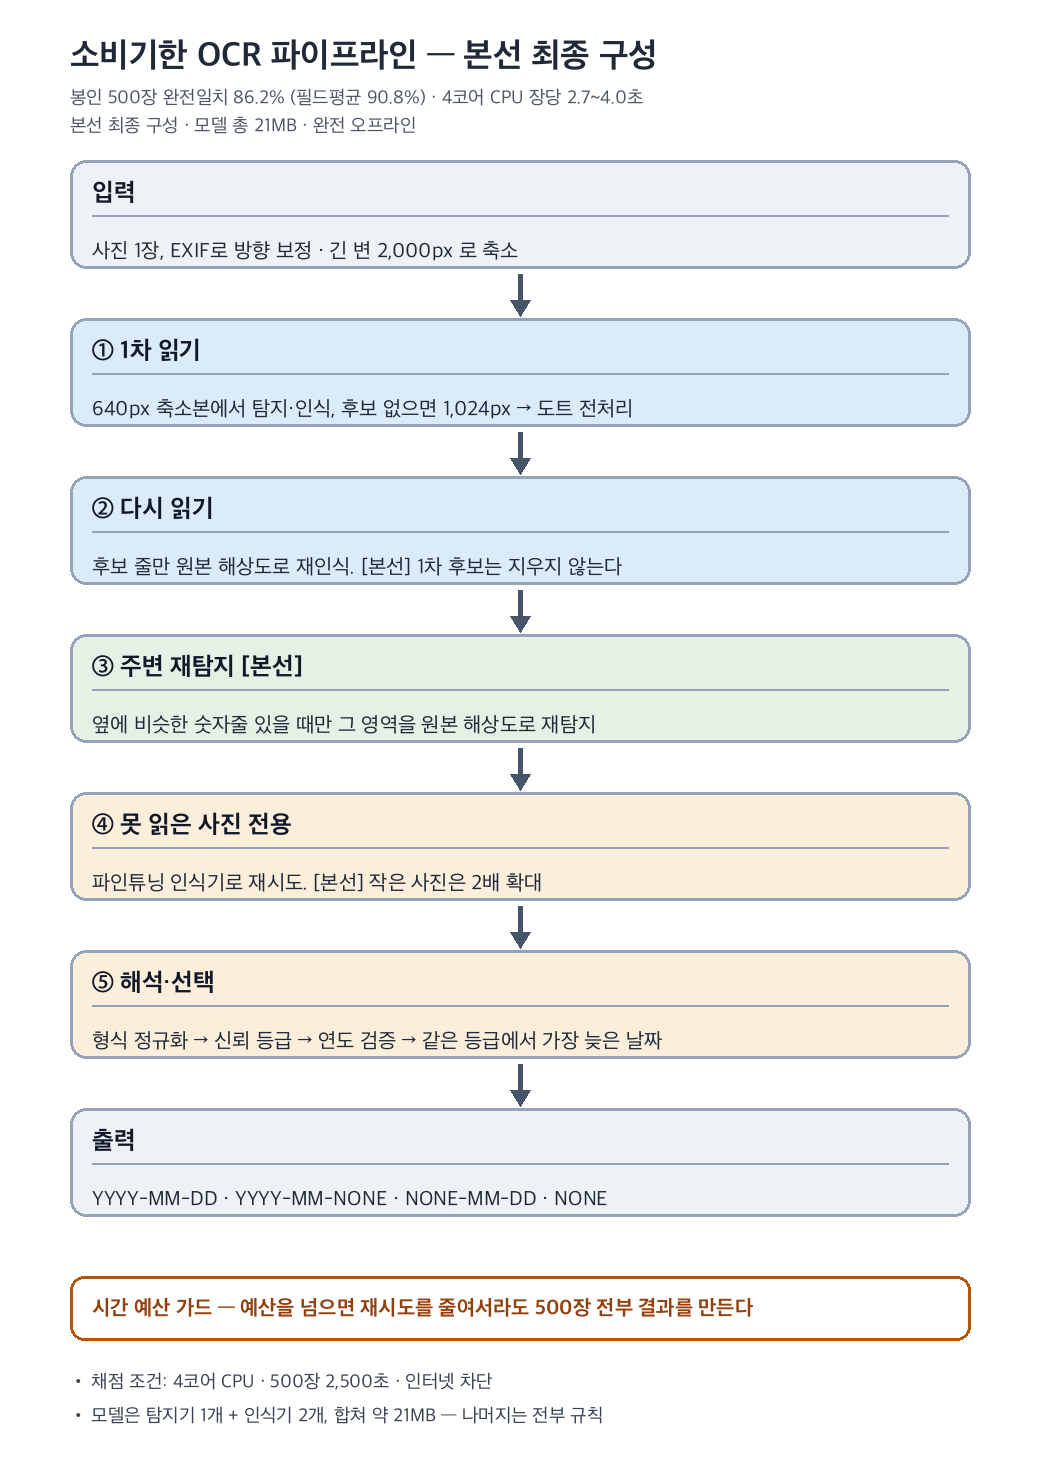
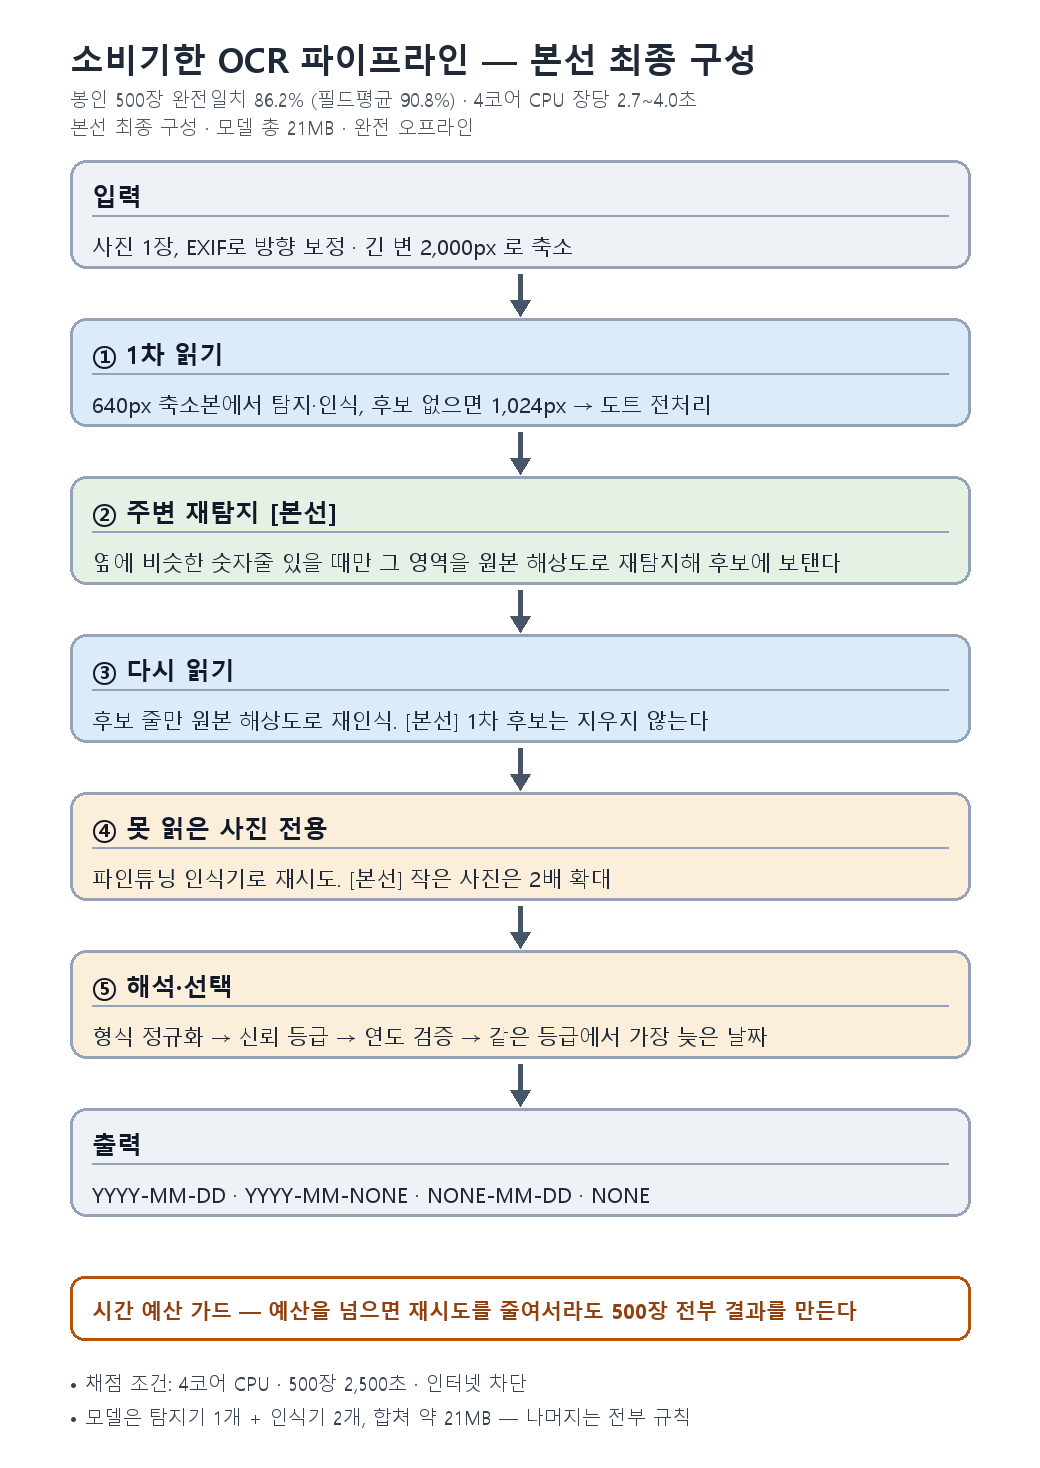
docs(구조도): ②·③ 순서를 코드 실행 순서(주변 재탐지 → 다시 읽기)에 맞춤
predict.ipynb 는 pass1 → redetect_neighbors → pass2 순서라, 재탐지로 찾은 줄도 다시 읽기·다수결을 거친다.
그림(architecture.png/svg)과 본선보고서 초안 D·전체판 3-1 텍스트 도식을 함께 고치고, 남은 일 4 완료·갱신 기록 추가.
Windows(맑은 고딕)에서 본문 글자가 상자 테두리에 닿아 PNG 본문만 7px 올림(맥 글꼴은 그대로). 본문 수치 변경 없음.

diff --git a/notebooks/draw_architecture.py b/notebooks/draw_architecture.py
@@ -1,4 +1,4 @@
-"""파이프라인 아키텍처 구조도를 PNG(보고서·발표용)와 SVG(편집용)로 그린다. 본선 최종 구성 기준(2026-09-29).
+"""파이프라인 아키텍처 구조도를 PNG(보고서·발표용)와 SVG(편집용)로 그린다. 본선 최종 구성 기준(2026-09-29). 10/2: ② 주변 재탐지 → ③ 다시 읽기로 순서를 predict.ipynb 실행 순서에 맞춤.
 A4 세로 비율(1:1.414)에 맞춰 단계를 세로로 쌓는다 — 보고서(A4 세로)에 그대로 끼워 넣기 위함.
 
     python notebooks/draw_architecture.py            # → docs/img/architecture.png, architecture.svg
@@ -8,6 +8,8 @@ import argparse, os
 from PIL import Image, ImageDraw, ImageFont
 
 ROOT = os.path.dirname(os.path.dirname(os.path.abspath(__file__)))
+# 맑은 고딕은 같은 크기에서 글자가 아래로 더 내려와 상자 테두리에 닿는다 → PNG 본문만 위로 올린다 (맥 글꼴은 0)
+BODY_DY = -7 if os.path.exists("C:/Windows/Fonts/malgun.ttf") else 0
 
 
 def _font(regular_idx, size):
@@ -30,8 +32,8 @@ a = ap.parse_args()
 STAGES = [
     ("입력", ["사진 1장, EXIF로 방향 보정 · 긴 변 2,000px 로 축소"], "#EEF2F7"),
     ("① 1차 읽기", ["640px 축소본에서 탐지·인식, 후보 없으면 1,024px → 도트 전처리"], "#DCEBFA"),
-    ("② 다시 읽기", ["후보 줄만 원본 해상도로 재인식. [본선] 1차 후보는 지우지 않는다"], "#DCEBFA"),
-    ("③ 주변 재탐지 [본선]", ["옆에 비슷한 숫자줄 있을 때만 그 영역을 원본 해상도로 재탐지"], "#E4F1E4"),
+    ("② 주변 재탐지 [본선]", ["옆에 비슷한 숫자줄 있을 때만 그 영역을 원본 해상도로 재탐지해 후보에 보탠다"], "#E4F1E4"),
+    ("③ 다시 읽기", ["후보 줄만 원본 해상도로 재인식. [본선] 1차 후보는 지우지 않는다"], "#DCEBFA"),
     ("④ 못 읽은 사진 전용", ["파인튜닝 인식기로 재시도. [본선] 작은 사진은 2배 확대"], "#FBEEDB"),
     ("⑤ 해석·선택", ["형식 정규화 → 신뢰 등급 → 연도 검증 → 같은 등급에서 가장 늦은 날짜"], "#FBEEDB"),
     ("출력", ["YYYY-MM-DD · YYYY-MM-NONE · NONE-MM-DD · NONE"], "#EEF2F7"),
@@ -86,7 +88,7 @@ def box(y, head, body, color):
     svg.append(f'<line x1="{MARGIN+22}" y1="{div_y}" x2="{MARGIN+BOX_W-22}" y2="{div_y}" stroke="#94A3B8" stroke-width="2"/>')
     yy = div_y + 24
     for sub in body_lines:
-        d.text((MARGIN + 22, yy), sub, font=f_body, fill="#1F2937")
+        d.text((MARGIN + 22, yy + BODY_DY), sub, font=f_body, fill="#1F2937")
         svg.append(f'<text x="{MARGIN+22}" y="{yy+19}" font-size="19" fill="#1F2937">{sub}</text>')
         yy += 30
     return y + h

diff --git a/docs/본선보고서_초안_D_전체판.md b/docs/본선보고서_초안_D_전체판.md
@@ -92,24 +92,24 @@
 
 ### 3-1. 전체 파이프라인 아키텍처 구조도
 
-(그림 자리: `docs/img/architecture.png` — 최종 구성으로 다시 그릴 것)
+(그림 자리: `docs/img/architecture.png`)
 
 ```
 사진
  ├─ ① 1차 읽기 (640px)   글자 위치 탐지 → 큰 글자부터 인식. 완전한 날짜를 찾으면 잔글씨 생략
  │      └ 후보 없음 → 1,024px 재시도 → 도트 인쇄 전처리 후 재시도
- ├─ ② 다시 읽기           날짜 후보 줄만 원본 해상도로 재인식 → 1차 결과와 다수결
+ ├─ ② [본선] 주변 재탐지   후보 줄 옆에 크기 비슷한 숫자 줄이 있을 때만 원본 해상도로 다시 탐지해 후보에 보탬
+ ├─ ③ 다시 읽기           날짜 후보 줄만 원본 해상도로 재인식 → 1차 결과와 다수결
  │      ├ [본선] 다시 읽은 결과가 1차 후보를 지우지 못하게 함
  │      ├ [본선] 일(日)이 한 자리로 읽히면 글자 상자를 넓혀 재인식
  │      └ [본선] 깨져 읽힌 날짜 모양 줄을 다시 읽어 둘 이상 일치할 때만 후보에 추가
- ├─ ③ [본선] 주변 재탐지   후보 줄 옆에 크기 비슷한 숫자 줄이 있을 때만 원본 해상도로 다시 탐지
  ├─ ④ 못 읽은 사진 전용    파인튜닝 인식기로 재시도 → [본선] 작은 사진은 2배 확대해 재시도
  ├─ ⑤ 해석·선택           형식 정규화 → 신뢰 등급 → 연도 범위 → 같은 등급 안에서 가장 늦은 날짜
  ├─ 시간 예산 가드         예상 소요가 예산을 넘으면 단계를 줄임. 결과 파일은 반드시 생성
  └─ 출력  YYYY-MM-DD / YYYY-MM-NONE / NONE-MM-DD / NONE
 ```
 
-딥러닝 모델은 탐지기 1개와 인식기 2개(사전학습, 우리 라벨로 파인튜닝)이고 합쳐 약 21MB 다. 나머지는 전부 규칙이다. 비용이 큰 단계는 모두 조건부라, 대부분의 사진은 ①·②·⑤ 만 거친다.
+딥러닝 모델은 탐지기 1개와 인식기 2개(사전학습, 우리 라벨로 파인튜닝)이고 합쳐 약 21MB 다. 나머지는 전부 규칙이다. 비용이 큰 단계는 모두 조건부라, 대부분의 사진은 ①·③·⑤ 만 거친다.
 
 ### 3-2. 모듈별 설계 의도 및 기술 선택 이유
 
@@ -478,7 +478,7 @@
 | 2 | 서버 단가를 공식 요금표로 확인 — 네이버클라우드 High CPU-g2(200원/시) · KT Cloud 동일 사양(193~214원/시) 확인 완료, 기존 196원과 일치 | 6-3, 6-4 | 완료 |
 | 2-1 | "잔여 6개월" 서술 고치기 — 2025-05-08 부터 조건이 '소비기한 이내'로 바뀜. 발표 Q&A 는 고쳐짐(9/29 확인). **원격 main 의 `docs/D안_근거자료.md`(11·42·56행)는 아직 6개월로 적혀 있음.** 17번 슬라이드는 PPT 를 열어 확인 | 발표, 8절 링크 | 일부 |
 | 3 | 소비기한 칸이 필수 입력인지 게시 화면에서 확인 (건강기능식품·가공식품) | 6-1 | 남음 |
-| 4 | 구조도 그림을 최종 구성으로 다시 그리기 | 3-1 | 남음 |
+| 4 | 구조도 그림을 최종 구성으로 다시 그리기 — 10/2 완료. `docs/img/architecture.png`, ②·③ 순서를 `predict.ipynb` 실행 순서(주변 재탐지 → 다시 읽기)에 맞춤 | 3-1 | 완료 |
 | 5 | 도메인 흐름 화면(시연 캡처). 시연 순서와 화면별로 보여 줄 것은 `docs/D안_추가조사_0928.md` 9절 | 6-2, 발표 | 남음 |
 | 6 | 새 가상환경에서 설치부터 실행까지 확인하고 실행 로그를 저장소에 포함 | 5-1 | 남음 |
 | 7 | 분량 확인 — PDF 로 만들어 10쪽 안에 들어오는지 | 전체 | 남음 |
@@ -520,3 +520,4 @@
 | 9/29 | **v1.8.** ① 직접 찍은 폰 사진의 정확도(52.4%, 필드평균, 찍은 사람별, 병기·각인)를 본문에서 뺌. 값은 아래 '본문 숫자의 출처' 표에 남김. 같은 389장으로 계산한 운영 수치는 그대로 ② 6-1 을 기사 원문 재확인 결과로 보강 — 소비자원 상담 통계, 명절 위반 3배 이상, 전담 인력 5명, '받아들일 바탕'과 '안전 문제가 아니라 정보 문제' 행 추가, 메루카리 출품 조건 ③ 6-4 의 법안 서술 정정. 새 실험 없음 |
 | 9/29 | **v1.7, 전체판을 10쪽 판과 맞춤.** 10쪽 판 v1.3 ~ v1.6 의 수정을 반영 — 0.2% 가 판매자가 값을 넣거나 고쳤을 때의 수치임을 명시(폰 사진 0.4%), 1-1 대표 수치 교체, 확신도 0.7 의 근거, 확신이 낮은 값은 숨기고 대조, 최대 기한 검사를 보조 장치로, 6-1 단정 표현을 '자료를 찾지 못했다'로, 손익분기에 조건 완화 뒤 행과 빠진 비용, 도입 이유(규제 대응), 건당 비용 하한 0.2원, 측정 기준 표기(초기 라벨 133장·초기 구성), +25/−1 에 파인튜닝 재시도 포함, '각인·도트' → '각인', 봉인 500장의 예선 사용 이력, 7절에 다른 현장과의 연결. 새 실험·수치 변경 없음 |
 | 10/2 | 남은 일 11 완료 — 한국어 인식기를 끈 최종 구성으로 봉인 500장을 다시 돌려 `results/pred500_2026-10-02_final_kooff.csv` 저장. 출처 표의 봉인 500장 두 줄을 이 파일로 바꿈. 본문 수치 변경 없음 |
+| 10/2 | 3-1 구조도의 ②·③ 순서를 코드 실행 순서에 맞춤 — 주변 재탐지가 다시 읽기보다 먼저 돌고, 찾은 줄도 다시 읽기·다수결을 거친다. 그림(`docs/img/architecture.png`)과 텍스트 도식 모두. 남은 일 4 완료. 본문 수치 변경 없음 |

diff --git a/docs/본선보고서_초안_D.md b/docs/본선보고서_초안_D.md
@@ -80,9 +80,9 @@
 사진
  ├─ ① 1차 읽기 (640px)  글자 위치 탐지 → 큰 글자부터 인식. 완전한 날짜를 찾으면 잔글씨 생략
  │      └ 후보 없음 → 1,024px 재시도 → 도트 인쇄 전처리 후 재시도
- ├─ ② 다시 읽기          후보 줄만 원본 해상도로 재인식 → 1차 결과와 다수결
+ ├─ ② [본선] 주변 재탐지  후보 줄 옆에 크기 비슷한 숫자 줄이 있을 때만. 찾은 줄은 후보에 보탬
+ ├─ ③ 다시 읽기          후보 줄만 원본 해상도로 재인식 → 1차 결과와 다수결
  │      └ [본선] 1차 후보를 지우지 못하게 함 · 글자 상자 넓히기 · 깨진 줄 다시 읽기
- ├─ ③ [본선] 주변 재탐지  후보 줄 옆에 크기 비슷한 숫자 줄이 있을 때만
  ├─ ④ 못 읽은 사진 전용   파인튜닝 인식기 → [본선] 작은 사진은 2배 확대
  ├─ ⑤ 해석·선택          형식 정규화 → 신뢰 등급 → 연도 범위 → 가장 늦은 날짜
  ├─ 시간 예산 가드        예상 소요가 예산을 넘으면 단계를 줄임
@@ -346,7 +346,7 @@
 | 2 | 서버 단가를 공식 요금표로 확인 — 네이버클라우드 High CPU-g2(200원/시) · KT Cloud 동일 사양(193~214원/시) 확인 완료, 기존 196원과 일치 | 6-3, 6-4 | 완료 |
 | 2-1 | "잔여 6개월" 서술 고치기 — 2025-05-08 부터 조건이 '소비기한 이내'로 바뀜. 발표 Q&A 는 고쳐짐(9/29 확인). **원격 main 의 `docs/D안_근거자료.md`(11·42·56행)는 아직 6개월로 적혀 있음.** 17번 슬라이드는 PPT 를 열어 확인 | 발표, 8절 링크 | 일부 |
 | 3 | 소비기한 칸이 필수 입력인지 게시 화면에서 확인 (건강기능식품·가공식품) | 6-1 | 남음 |
-| 4 | 구조도 그림을 최종 구성으로 다시 그리기 | 3-1 | 남음 |
+| 4 | 구조도 그림을 최종 구성으로 다시 그리기 — 10/2 완료. `docs/img/architecture.png`, ②·③ 순서를 `predict.ipynb` 실행 순서(주변 재탐지 → 다시 읽기)에 맞춤 | 3-1 | 완료 |
 | 5 | 도메인 흐름 화면(시연 캡처). 시연 순서와 화면별로 보여 줄 것은 `docs/D안_추가조사_0928.md` 9절 | 6-2, 발표 | 남음 |
 | 6 | 새 가상환경에서 설치부터 실행까지 확인하고 실행 로그를 저장소에 포함 | 5-1 | 남음 |
 | 7 | 분량 확인 — 임시 변환으로 9쪽(9/29). 제출용 서식(여백·줄간격 기본값)으로 다시 확인. 그림 두 장이 들어가면 10쪽 | 전체 | 일부 |
@@ -393,3 +393,4 @@
 | 9/29 | **v1.8.** ① 직접 찍은 폰 사진의 정확도(52.4%, 필드평균, 찍은 사람별, 각인 18.2%)를 본문에서 뺌(1-1, 1-2, 4-2, 7절). 같은 389장으로 계산한 운영 수치는 그대로 ② 6-1 을 기사 원문 재확인 결과로 보강 — 식료품·기호품 상담 19 → 661건, 명절 위반 3배 이상, 추석 선물세트 +50%, 전담 인력 5명, 사진 기반 자동 작성 기능과 식약처 '모두누리 식품표시', 메루카리의 출품 금지 조건 ③ 6-4 의 법안 서술을 '제출돼 있다(심사 결과 미확인)'로. 새 실험 없음 |
 | 9/29 | v1.7, D 안 확정 뒤 최종 점검. 4-1 표 아래 측정 기준을 바로잡음(133장 기준은 첫 두 줄, 합성 도트 학습은 봉인 500장), 남은 일 2-1 을 현재 상태로, 10번(main 병합) 추가, 출처 표에 확신도 0.7 교환비의 계산. 본문 수치 변경 없음 |
 | 10/2 | 남은 일 11 완료 — 한국어 인식기를 끈 최종 구성으로 봉인 500장을 다시 돌려 `results/pred500_2026-10-02_final_kooff.csv` 저장. 출처 표의 봉인 500장 두 줄을 이 파일로 바꿈. 본문 수치 변경 없음 |
+| 10/2 | 3-1 구조도의 ②·③ 순서를 코드 실행 순서에 맞춤 — 주변 재탐지가 다시 읽기보다 먼저 돌고, 찾은 줄도 다시 읽기·다수결을 거친다. 그림(`docs/img/architecture.png`)과 텍스트 도식 모두. 남은 일 4 완료. 본문 수치 변경 없음 |
